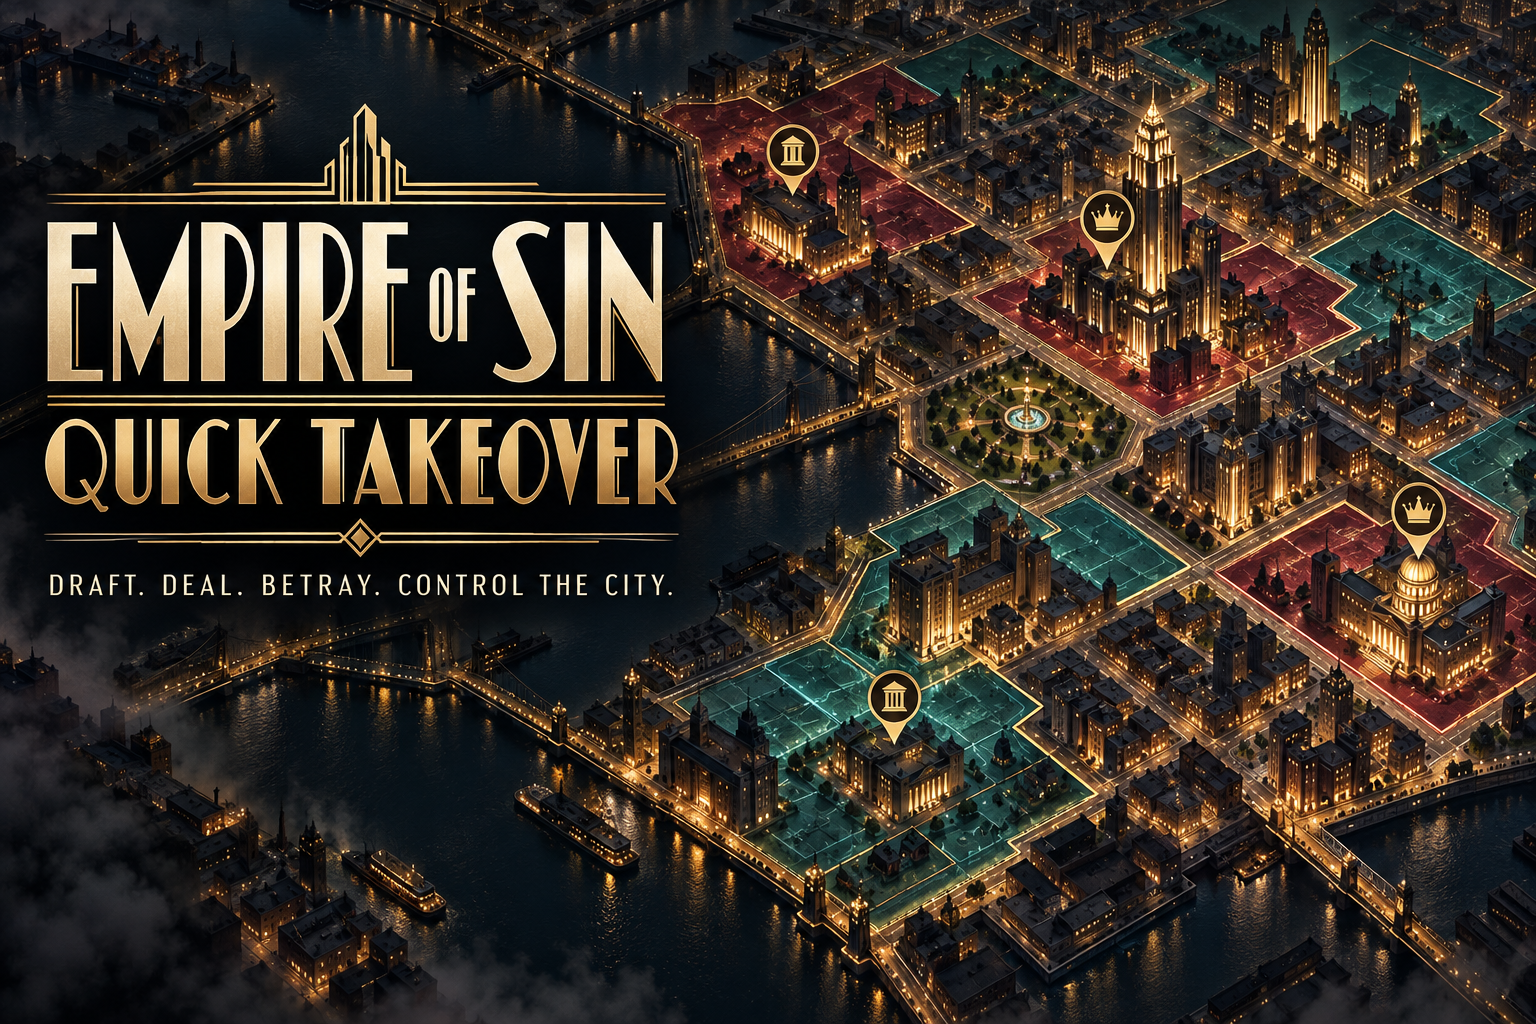
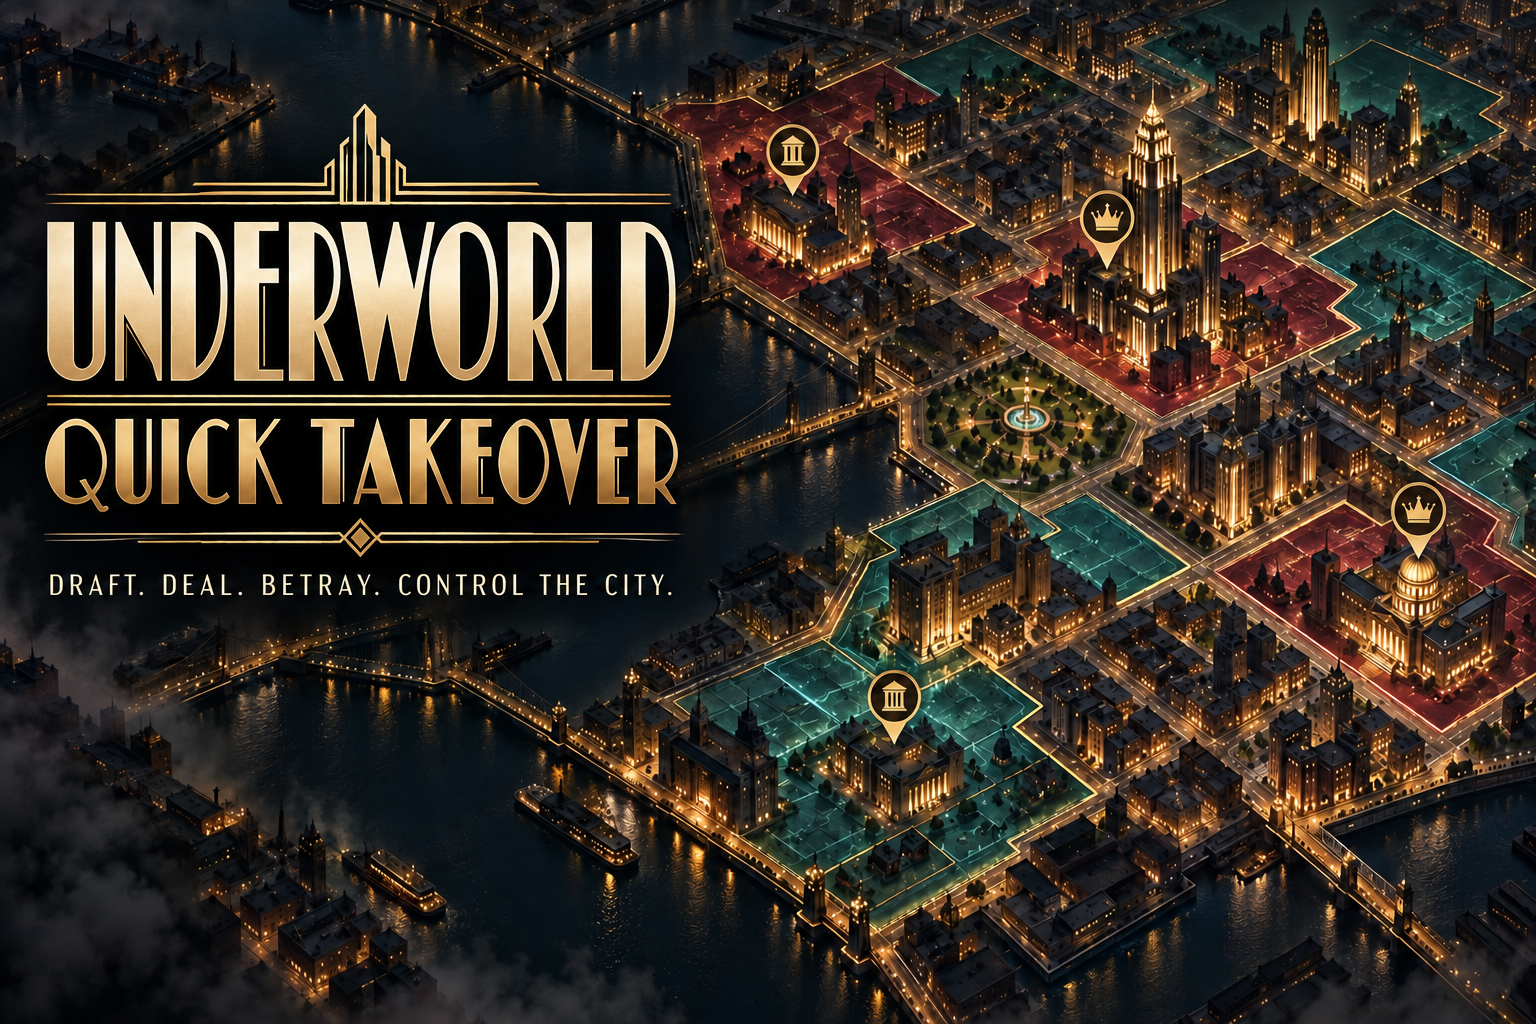
Correct game name to Underworld

diff --git a/apps/web/app/page.tsx b/apps/web/app/page.tsx
@@ -67,9 +67,9 @@ export default function Home() {
     <Onboarding />
     <div className="entry-ambient" aria-hidden="true"><i /><i /><i /></div>
     <section className="brand-block">
-      <div className="brand-seal"><span>E·S</span></div>
+      <div className="brand-seal"><span>U·Q</span></div>
       <p className="eyebrow">A five-round struggle for the city</p>
-      <h1><span>Empire of Sin</span>Quick Takeover</h1>
+      <h1><span>Underworld</span>Quick Takeover</h1>
       <p className="entry-copy">Draft in secret. Make dangerous promises. Own the night before it owns you.</p>
       <div className="feature-line"><span>2–8 players</span><i /><span>5–8 minutes</span><i /><span>No account</span></div>
     </section>
@@ -93,7 +93,7 @@ export default function Home() {
   return <main className="game-page">
     <Onboarding />
     <header className="game-header">
-      <div className="compact-brand"><div className="brand-seal small"><span>E·S</span></div><div><span>Empire of Sin</span><b>Quick Takeover</b></div></div>
+      <div className="compact-brand"><div className="brand-seal small"><span>U·Q</span></div><div><span>Underworld</span><b>Quick Takeover</b></div></div>
       <div className="round-display"><span>Round</span><b>{publicGame.round}<em>/5</em></b></div>
       <div className="phase-display"><span>{publicGame.phase}</span>{countdown !== null && <b className={countdown < 5_000 ? "urgent" : ""}>{Math.ceil(countdown / 1000)}s</b>}</div>
       <div className="roster-strip" aria-label="Player roster">{publicGame.players.map((player) => <div key={player.id} className={player.id === me?.id ? "current" : ""}><span className={`boss-avatar boss-${player.seat}`} /><b>{player.nickname}</b><em>{player.influence}</em></div>)}</div>
@@ -129,7 +129,7 @@ function Lobby({ state, playerId, busy, error, onStart, onLeave }: { state: Publ
   const joinUrl = typeof window === "undefined" ? "" : window.location.href;
   return <main className="lobby-page">
     <Onboarding />
-    <header className="lobby-brand"><div className="brand-seal"><span>E·S</span></div><div><p className="eyebrow">Private table</p><h1>Gather the families</h1></div></header>
+    <header className="lobby-brand"><div className="brand-seal"><span>U·Q</span></div><div><p className="eyebrow">Private table</p><h1>Gather the families</h1></div></header>
     <section className="room-code-card"><span>Room code</span><strong>{state.room.code}</strong><button onClick={() => navigator.clipboard.writeText(joinUrl)}>Copy invite link</button></section>
     <section className="lobby-table panel"><header><div><span className="eyebrow">The guest list</span><h2>{state.room.players.length} of 8 syndicates</h2></div><span className="live-pill">Room open</span></header>
       <div className="player-list">{state.room.players.map((player, index) => <article key={player.id}><i style={{ background: FACTIONS[index] }} /><div><b>{player.nickname}</b><span>{player.id === state.room.hostPlayerId ? "Host · " : ""}{player.connected ? "At the table" : "Reconnecting"}</span></div><em>{String(index + 1).padStart(2, "0")}</em></article>)}</div>

diff --git a/apps/web/app/layout.tsx b/apps/web/app/layout.tsx
@@ -3,17 +3,17 @@ import "./globals.css";
 
 export const metadata: Metadata = {
   metadataBase: new URL(process.env.NEXT_PUBLIC_WEB_URL ?? "http://localhost:3000"),
-  title: "Empire of Sin: Quick Takeover",
+  title: "Underworld: Quick Takeover",
   description: "A five-round multiplayer battle for control of the city.",
   openGraph: {
-    title: "Empire of Sin: Quick Takeover",
+    title: "Underworld: Quick Takeover",
     description: "Draft. Deal. Betray. Control the city in five ruthless rounds.",
     type: "website",
-    images: [{ url: "/og.png", width: 1536, height: 1024, alt: "Empire of Sin: Quick Takeover" }],
+    images: [{ url: "/og.png", width: 1536, height: 1024, alt: "Underworld: Quick Takeover" }],
   },
   twitter: {
     card: "summary_large_image",
-    title: "Empire of Sin: Quick Takeover",
+    title: "Underworld: Quick Takeover",
     description: "Draft. Deal. Betray. Control the city in five ruthless rounds.",
     images: ["/og.png"],
   },

diff --git a/docs/PHASE_4_REPORT.md b/docs/PHASE_4_REPORT.md
@@ -24,7 +24,7 @@ Completed October 15, 2026.
 
 ## Generated asset
 
-- `apps/web/public/og.png` (1536 × 1024) was generated with the built-in image generator from this direction: a cinematic Luxury Noir social card centered on a stylized Art Deco city map, using midnight black, antique gold, burgundy, ivory, and teal, with the title “EMPIRE OF SIN — QUICK TAKEOVER” and tagline “DRAFT. DEAL. BETRAY. CONTROL THE CITY.”
+- `apps/web/public/og.png` (1536 × 1024) was generated with the built-in image generator from this direction: a cinematic Luxury Noir social card centered on a stylized Art Deco city map, using midnight black, antique gold, burgundy, ivory, and teal, with the title “UNDERWORLD — QUICK TAKEOVER” and tagline “DRAFT. DEAL. BETRAY. CONTROL THE CITY.”
 
 ## Known issues and deferred work
 

diff --git a/docs/PHASE_0_PLAN.md b/docs/PHASE_0_PLAN.md
@@ -1,4 +1,4 @@
-# Empire of Sin: Quick Takeover — Phase 0 Build Plan
+# Underworld: Quick Takeover — Phase 0 Build Plan
 
 Status: proposed for approval (2026-10-15)
 
